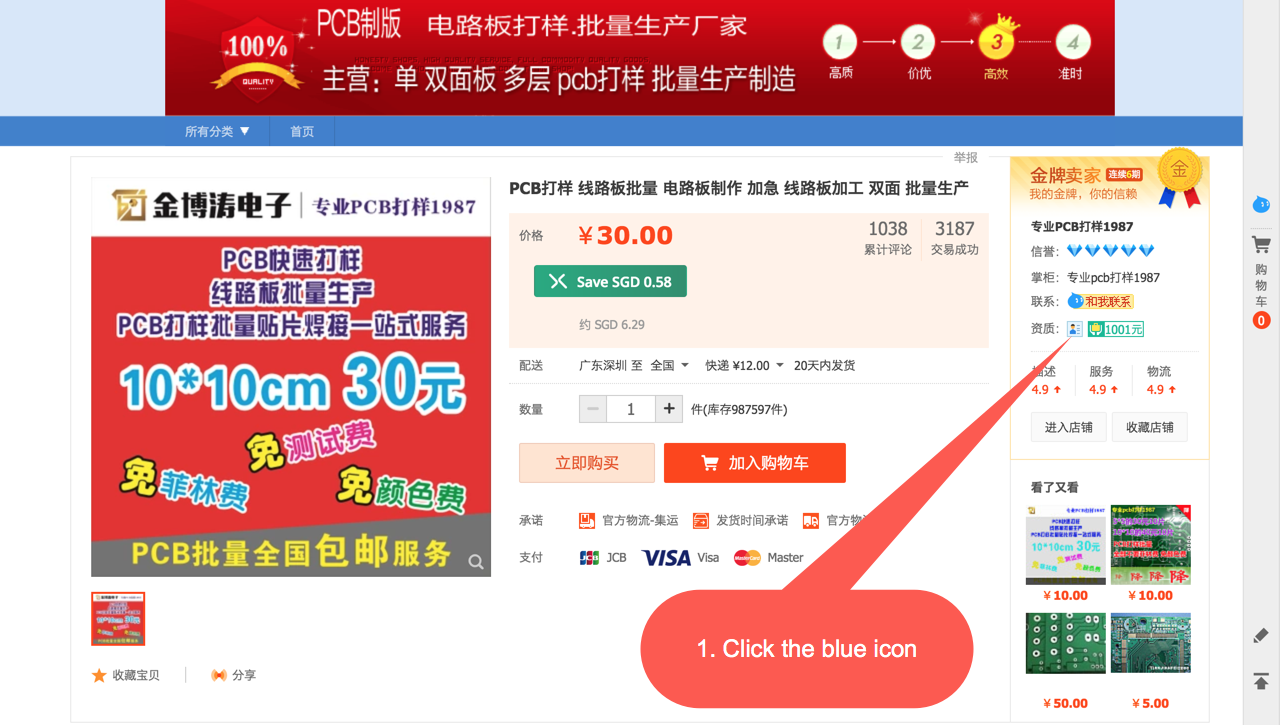
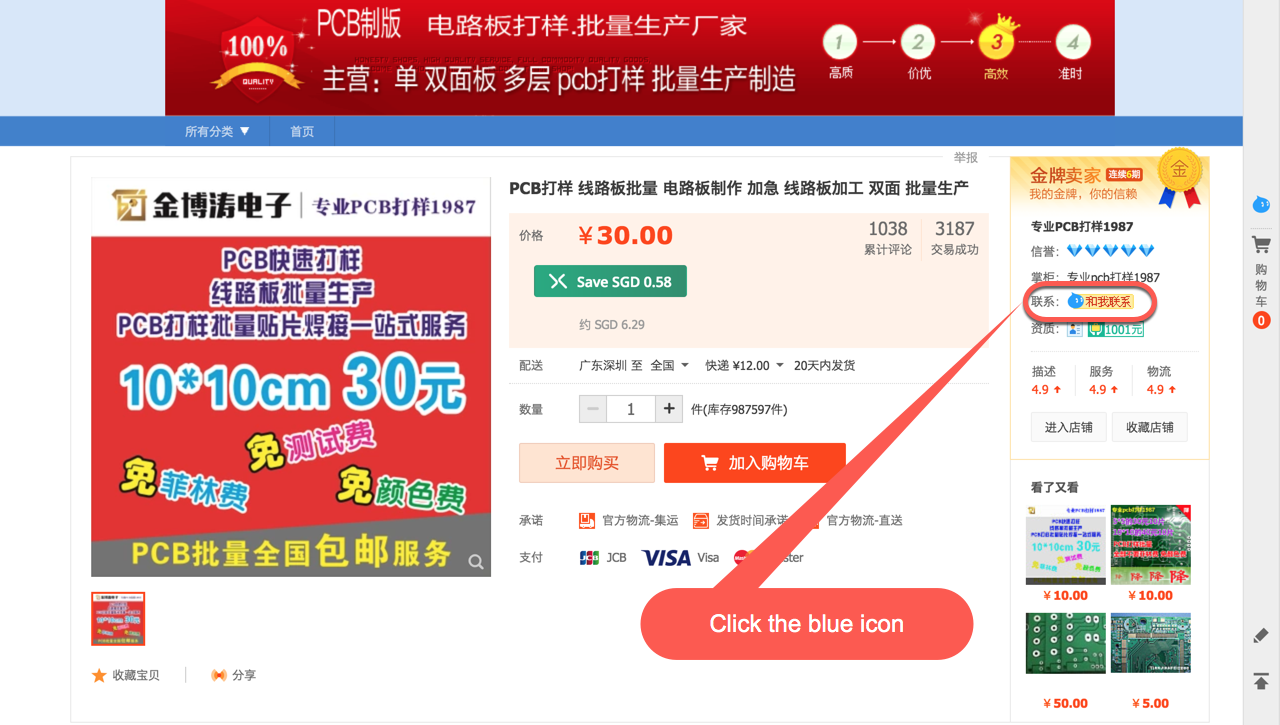
update

Changed region(s): [[0.5, 0.4552, 0.8125, 1.0], [0.7812, 0.3641, 0.9062, 0.4552], [0.8125, 0.4855, 0.8438, 0.5159]]

diff --git a/README.md b/README.md
@@ -4,13 +4,13 @@ A walkthrough guide on buying electronics online from China.
 
 Table of contents:
 * [Pre-requisites](#Pre-requisites)
-  * [resources](#resources)
+  * [Resources](#Resources)
 * [Comparisons & alternatives](#Comparisons)
 * [Taobao](#Taobao)
   * [Buying](#Buying)
-  * [Pro tips](#Pro tips)
+  * [Tips & Tricks](#Tips & Tricks)
   * [Claiming](#Claiming)
-* [Improvements]()
+* [Improvements](#Improvements)
 * [Conclusion](#Conclusion) (w/credits)
   * [Motivation](#Motivation)
 
@@ -22,7 +22,7 @@ We'll also need a taobao + alipay account and aliwangwang installed. (Alternativ
 
 While some knowledge of Chinese is helpful, it is not necessary for the basic PCB designs in this guide. 
 
-### resources
+### Resources
 Taobao [account setup guide](https://www.youtube.com/watch?v=tBuuEMSsF58)
 
 Aliwangwang [download site](https://alimarket.taobao.com/markets/qnww/portal-group/ww/download)
@@ -59,8 +59,8 @@ Steps for JLC PCB service are not described here as (in my opinion) it's more be
 
 1. Search `PCB 打样` (making). In general, choose the shop with the lowest price per piece and highest number of reviews/verified purchases.
 ![screenshot](https://github.com/PandaRider/Taobao-PCB-guide/raw/master/screenshots/tb-search-1.png "Taobao Search 1")
-2. Click the small blue mascot at the most right side-bar with the phrase 和我联络. 
-![screenshot-3](https://github.com/PandaRider/Taobao-PCB-guide/raw/master/screenshots/tb-search-2.png "Logo Title Text 1")
+2. Click the small blue mascot at the most right side-bar with the phrase "和我联络". This will open up Aliwangwang 
+![screenshot-3](https://github.com/PandaRider/Taobao-PCB-guide/raw/master/screenshots/tb-search-2.png "Taobao search 2")
 3. Start chatting! Do regularly copy-paste the replies using Google Translate. Usually the conversation goes something like this
   * `您好`
   * [Copy-Paste the PCB product page's taobao link]
@@ -76,7 +76,7 @@ Steps for JLC PCB service are not described here as (in my opinion) it's more be
 
 5. Checking delivery 
 
-### Pro-tips
+### Tips & Tricks
 1. Do check the local delivery charges
 2. For purchases above ¥100, you can get a discounted conversion rate through RateX
 3. Do watch out for bumped up offers! If the price seems off, just move on to another seller.
@@ -87,13 +87,15 @@ Submission of claims depends on your institute's funding procedure. However, you
 
 Basically, you need 2 screenshots.
 
-##### Aliwangwang screenshot
+#### 1. Alipay screenshot
   1. Go to https://my.alipay.com/ and login
   2. Scroll to the bottom and click `查看所有交易记录` (see all transactions)
   3. You should see the screenshot below. Click on the any small "Hamburger" menu button.
   ![screenshot-](https://github.com/PandaRider/Taobao-PCB-guide/raw/master/screenshots/ali-1.png "Hamburger button")
   4. Take a screenshot of the entire web page. A sample screenshot is provided below.
   5. Repeat steps 3 and 4 for the rest of the transactions.
+
+#### 2. Your bank transaction
 
 By now you should have all 
 ![]()
